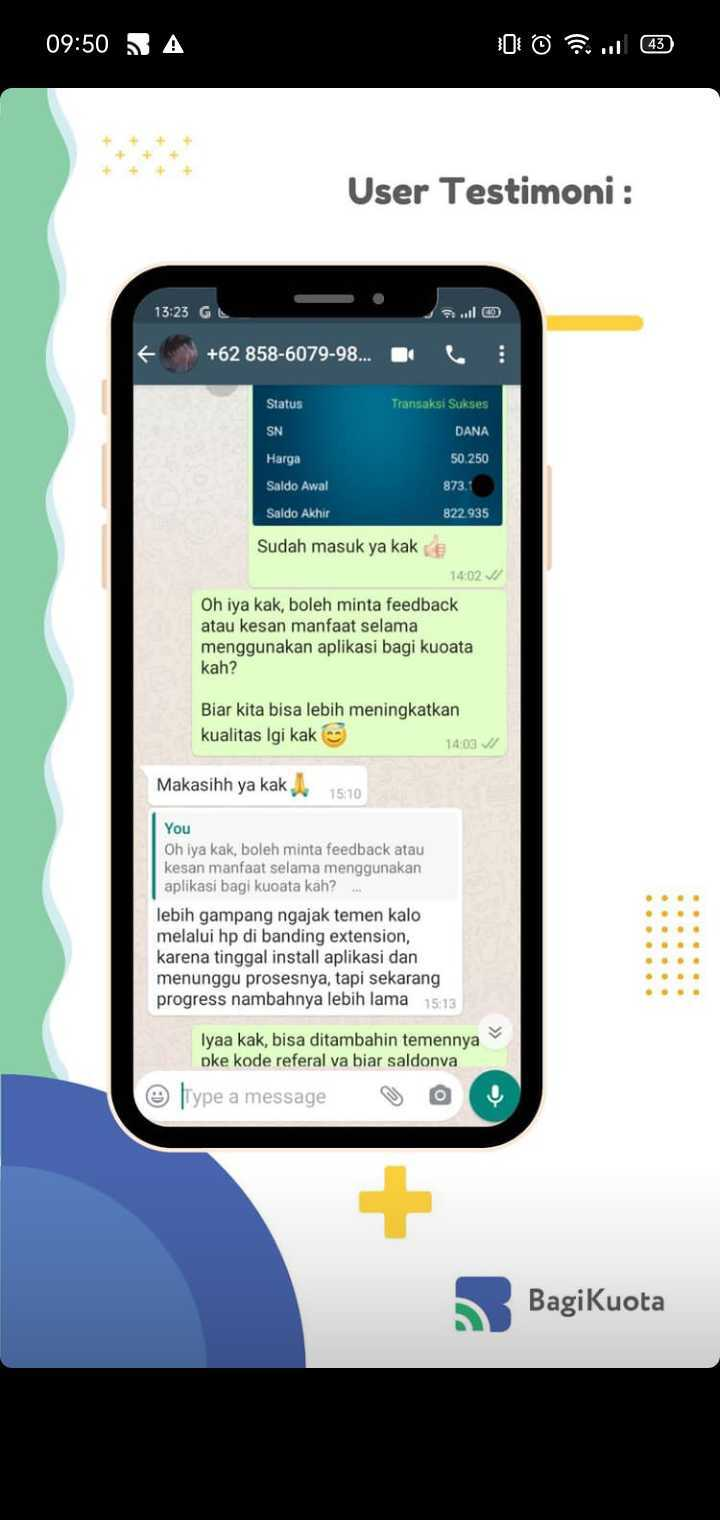
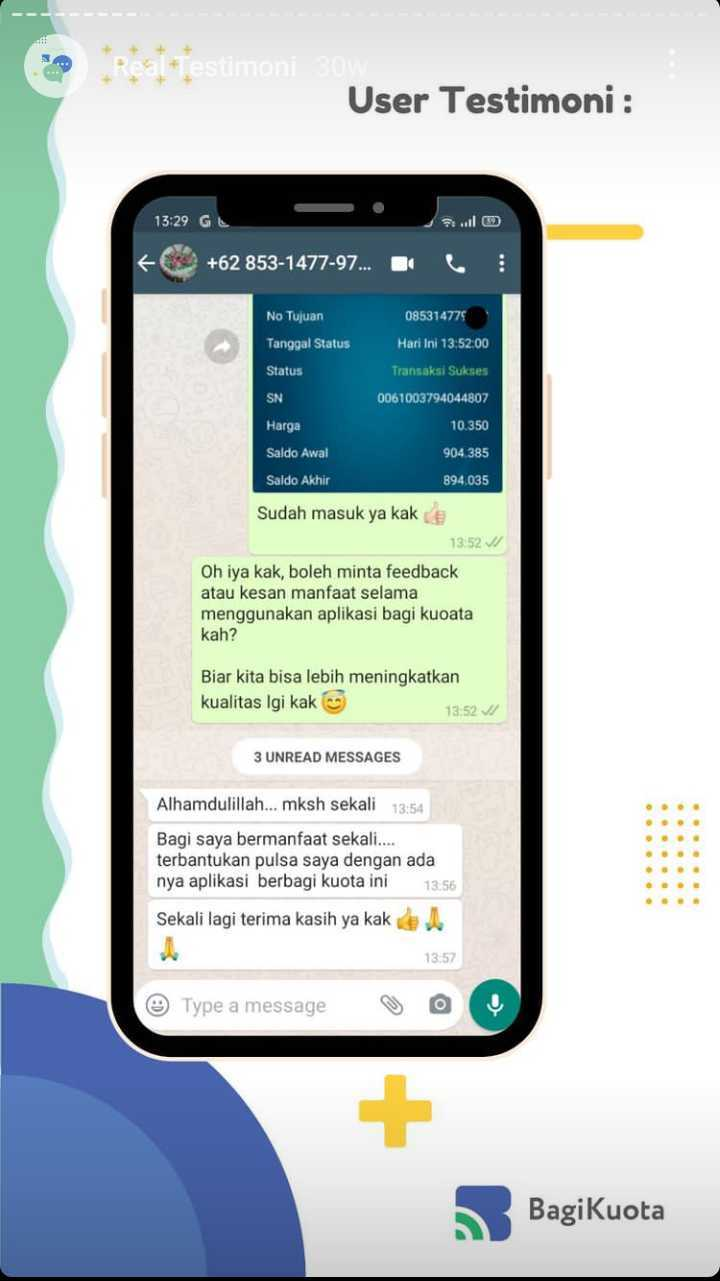
update

diff --git a/bagikuota.html b/bagikuota.html
@@ -122,7 +122,7 @@
           <div class="col-12 col-md-4">
 
             <!-- Image -->
-            <img class="screenshot img-fluid" src="./assets/img/BagiKuota SS/Index screen_Login_Completed.png" alt="BagiKuota app">
+            <img class="screenshot img-fluid rounded" src="./assets/img/BagiKuota SS/install app.png" alt="BagiKuota app">
             
             <p class="text-white font-size-lg mt-4">
               Install our app
@@ -133,7 +133,7 @@
           <div class="col-12 col-md-4">
 
             <!-- Image -->
-            <img class="screenshot img-fluid" src="./assets/img/BagiKuota SS/Index screen_Login_Completed.png" alt="BagiKuota app">         
+            <img class="screenshot img-fluid" src="./assets/img/BagiKuota SS/mystery boxes.png" alt="BagiKuota app">         
 
             <p class="text-white font-size-lg mt-4">
               Get paid for being active - Get mystery boxes every 3hours worth 3000-9000 IDR
@@ -144,7 +144,7 @@
           <div class="col-12 col-md-4">
 
             <!-- Image -->
-            <img class="screenshot img-fluid" src="./assets/img/BagiKuota SS/Index screen_Login_Completed.png" alt="BagiKuota app">         
+            <img class="screenshot img-fluid" src="./assets/img/BagiKuota SS/social media ads.png" alt="BagiKuota app">         
 
             <p class="text-white font-size-lg mt-4">
               (Optional) Get paid even more for posting - Post on social media and make more money
@@ -314,8 +314,12 @@
             </h2>
 
             <!-- Text -->
-            <p class="font-size-lg text-gray-700 mb-9">
+            <p class="font-size-lg text-gray-700">
               Real experience from user's perspective who use Bagikuota app
+            </p>
+
+            <p class="small text-muted mb-9">
+              Drag image right/left to view more
             </p>
 
           </div>
@@ -361,6 +365,24 @@
               <div class="col-12 col-md-5 col-lg-4">
                 
                 <img class="img img-fluid rounded" alt="bagikuota testimoni" src="assets/img/testimoni/testi-5.jpeg">
+
+              </div>
+
+              <div class="col-12 col-md-5 col-lg-4">
+                
+                <img class="img img-fluid rounded" alt="bagikuota testimoni" src="assets/img/testimoni/testi-6.jpeg">
+
+              </div>
+              
+              <div class="col-12 col-md-5 col-lg-4">
+                
+                <img class="img img-fluid rounded" alt="bagikuota testimoni" src="assets/img/testimoni/testi-7.jpeg">
+
+              </div>
+              
+              <div class="col-12 col-md-5 col-lg-4">
+                
+                <img class="img img-fluid rounded" alt="bagikuota testimoni" src="assets/img/testimoni/testi-8.jpeg">
 
               </div>
 
